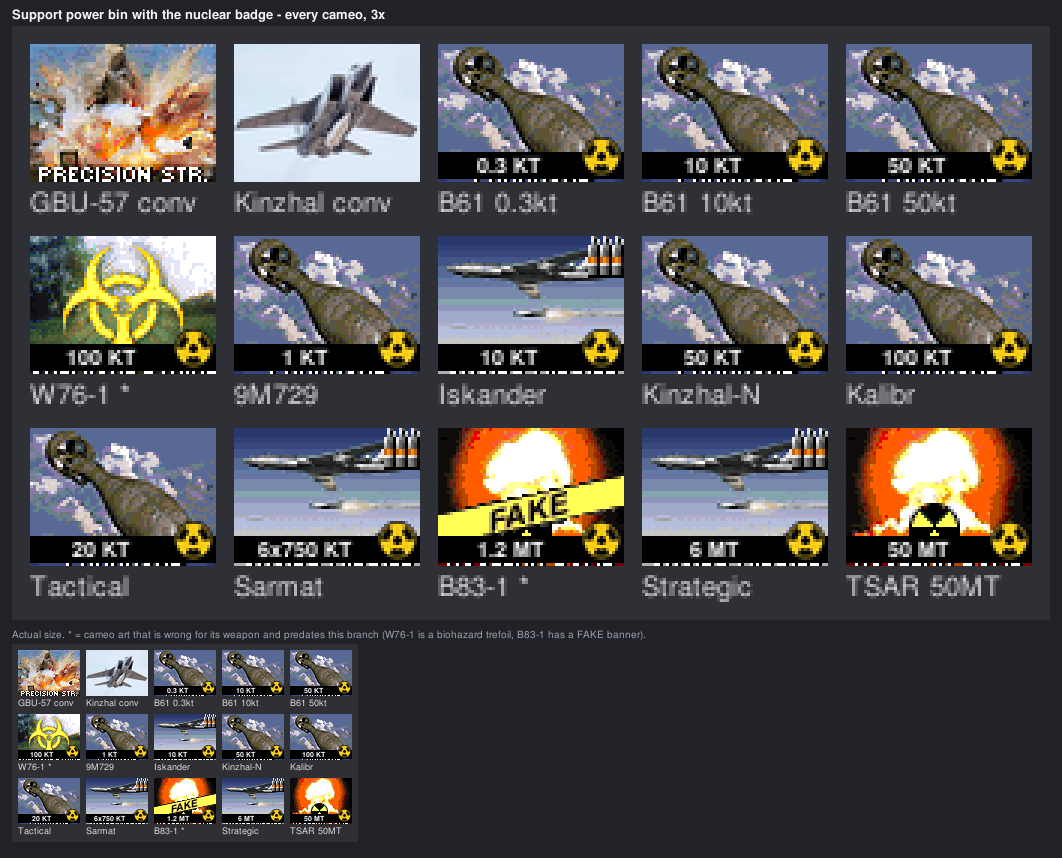
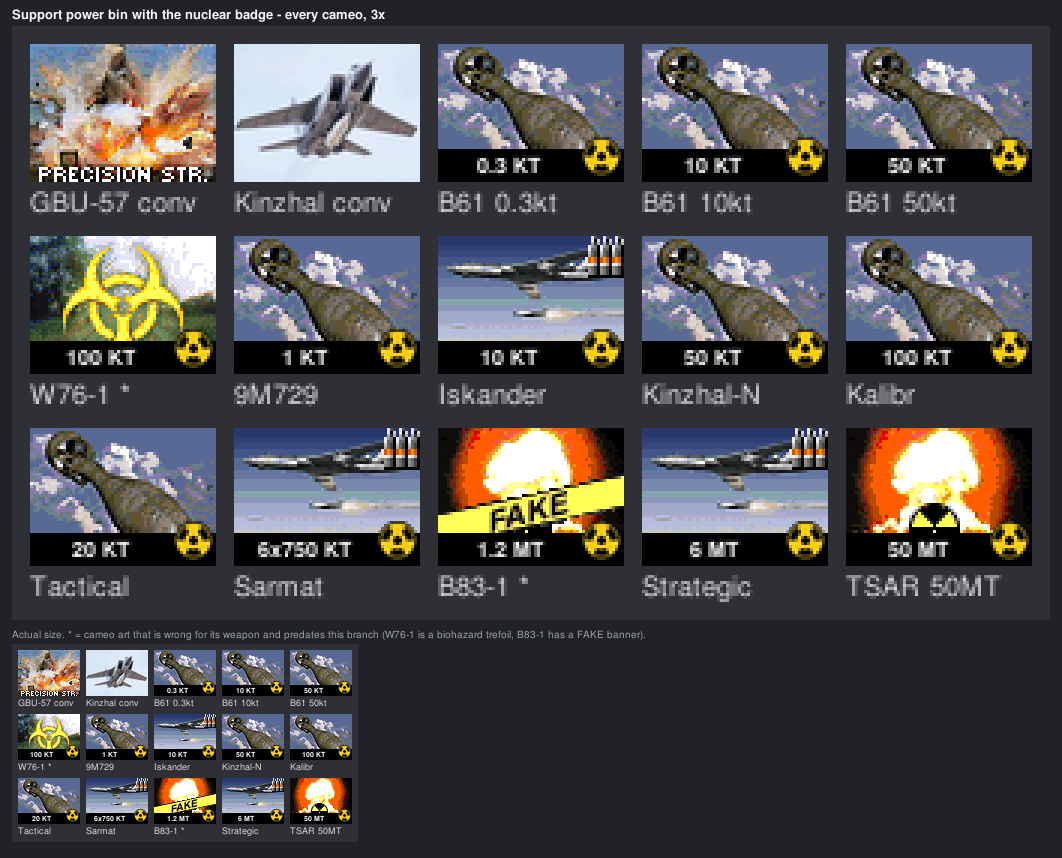
cameos: the caption band now covers the lettering it is meant to replace
The band exists so a runtime caption REPLACES the one baked into the art rather
than overlapping it, and it stopped one row short of doing that. Band rows 36-44
against baked ink whose last row is slot row 45, on all seven cameos the power
roster uses -- so a dotted line of the old lettering survived under every runtime
caption, on every captioned cameo in the mod. Shipped 2026-09-08 with the caption
feature; found by rendering the bin offline, not in play.

CaptionBackgroundPadding 1 -> 2 on both palettes. The padding rather than the
bottom margin, because the margin also positions the TEXT and lowering it would
drag every caption a pixel closer to the slot edge to fix a problem in the band.

THE RULE IS `padding >= bottomMargin`. The band runs to `slotHeight -
bottomMargin + padding`, clamped into the slot, so that is exactly when it
reaches the last row. Both numbers are now stated explicitly on both widgets so
the new test can read them instead of keeping a copy of the engine defaults.

TWO TESTS, because the bug was in the configuration and the arithmetic was fine:

* CameoCaptionsTest pins the relationship in the cache -- padding == margin
  reaches the slot bottom for every margin 0..4, padding < margin does not. The
  second is the shape of this bug, kept so it is on the record and so the first
  cannot be "fixed" by clamping the band unconditionally.

* CameoCaptionBandTest reads chrome/ingame-player.yaml and asserts the rule on
[…]

diff --git a/engine/OpenRA.Test/CameoCaptionBandTest.cs b/engine/OpenRA.Test/CameoCaptionBandTest.cs
@@ -1,0 +1,127 @@
+#region Copyright & License Information
+/*
+ * WW3MOD caption-band geometry test — reads the SHIPPED chrome, because the bug this exists to
+ * catch was in the configuration and not in the code.
+ *
+ * The runtime caption band is drawn behind a cameo caption so the caption REPLACES the lettering
+ * baked into the art rather than overlapping it (CameoCaptions.cs). Every cameo the mod ships has
+ * such lettering, and it runs to the bottom of the art.
+ *
+ * The band's rows are `[top - padding, top + lineHeight + padding]` clamped into the slot, where
+ * `top = slotHeight - bottomMargin - lineHeight` — so its bottom is `slotHeight - bottomMargin +
+ * padding`, and it reaches the slot's last row only when PADDING >= BOTTOM MARGIN.
+ *
+ * THAT DID NOT HOLD WHEN THE FEATURE SHIPPED on 2026-09-08. Both palettes took the engine's default
+ * padding of 1 against a bottom margin of 2, so the band covered slot rows 36–44 while the baked
+ * ink's last row is slot row 45 — verified on all seven cameos the power roster uses, each of which
+ * has its last bright row at sprite row 46, which is slot row 45 once IconSpriteOffset -1,-1 is
+ * applied. The result was a dotted line of the old caption surviving under every new one, on every
+ * captioned cameo in the mod. It was found by rendering the sidebar offline (tools/cameo/binmock.py)
+ * and not in play, which is the whole reason this file exists: nothing else would have said so.
+ *
+ * WHY IT READS THE YAML RATHER THAN ASSERTING NUMBERS. CameoCaptionsTest already pins the
+ * arithmetic; a second copy of it would have passed happily while the shipped chrome stayed wrong.
+ * The only thing that catches a configuration bug is reading the configuration.
+ *
+ * The widgets state BOTH keys explicitly so that this fixture never has to keep a copy of the
+ * engine defaults — a copy that would silently rot the day someone changed one. A widget that
+ * draws a band and omits either key fails here rather than being assumed correct.
+ *
+ * SCOPE, HONESTLY. Geometry only, and only for widgets that actually draw a band (a transparent
+ * CaptionBackgroundColor draws nothing, so the relationship does not matter). It does NOT check
+ * that the art's baked ink really ends where the comment says — that was measured once, offline,
+ * against the seven cameos in use, and new art could differ.
+ */
+#endregion
+
+using System;
+using System.Collections.Generic;
+using System.Globalization;
+using System.IO;
+using System.Linq;
+using NUnit.Framework;
+
+namespace OpenRA.Test
+{
+	[TestFixture]
+	public class CameoCaptionBandTest
+	{
+		static string FindMod(params string[] relative)
+		{
+			var dir = new DirectoryInfo(AppContext.BaseDirectory);
+			for (var i = 0; i < 10 && dir != null; i++, dir = dir.Parent)
+			{
+				var candidate = Path.Combine(new[] { dir.FullName, "mods", "ww3mod" }.Concat(relative).ToArray());
+				if (File.Exists(candidate))
+					return candidate;
+			}
+
+			throw new FileNotFoundException("could not locate mods/ww3mod/" + string.Join("/", relative));
+		}
+
+		static string Field(MiniYamlNode node, string key)
+		{
+			return node.Value.Nodes.FirstOrDefault(n => n.Key == key)?.Value.Value?.Trim();
+		}
+
+		/// <summary>Every widget node anywhere in the tree whose key starts with one of the prefixes.</summary>
+		static IEnumerable<MiniYamlNode> Widgets(IEnumerable<MiniYamlNode> nodes, params string[] prefixes)
+		{
+			foreach (var n in nodes)
+			{
+				if (n.Key != null && prefixes.Any(p => n.Key.StartsWith(p, StringComparison.Ordinal)))
+					yield return n;
+
+				foreach (var inner in Widgets(n.Value.Nodes, prefixes))
+					yield return inner;
+			}
+		}
+
+		static IEnumerable<MiniYamlNode> BandDrawingPalettes()
+		{
+			var chrome = MiniYaml.FromFile(FindMod("chrome", "ingame-player.yaml"));
+			return Widgets(chrome, "SupportPowers", "ProductionPalette")
+				.Where(w =>
+				{
+					// A fully transparent background draws nothing, so the geometry is moot.
+					var colour = Field(w, "CaptionBackgroundColor");
+					return colour != null && !colour.EndsWith("00", StringComparison.OrdinalIgnoreCase);
+				});
+		}
+
+		[Test]
+		public void EveryPaletteThatDrawsABandCoversTheBakedCaptionUnderneathIt()
+		{
+			var palettes = BandDrawingPalettes().ToArray();
+
+			// If this trips, either the widgets were renamed or the band was turned off wholesale.
+			// Both are things somebody should have to notice rather than silently lose the check.
+			Assert.That(palettes, Is.Not.Empty,
+				"no cameo palette in chrome/ingame-player.yaml draws a caption band; if that is " +
+				"deliberate this fixture is now checking nothing and should be deleted with a reason");
+
+			foreach (var w in palettes)
+			{
+				var marginText = Field(w, "CaptionBottomMargin");
+				var paddingText = Field(w, "CaptionBackgroundPadding");
+
+				Assert.That(marginText, Is.Not.Null,
+					$"{w.Key} draws a caption band but leaves CaptionBottomMargin implicit. State it: " +
+					"this fixture compares it against the padding and will not assume an engine default.");
+				Assert.That(paddingText, Is.Not.Null,
+					$"{w.Key} draws a caption band but leaves CaptionBackgroundPadding implicit. State it.");
+
+				var margin = int.Parse(marginText, CultureInfo.InvariantCulture);
+				var padding = int.Parse(paddingText, CultureInfo.InvariantCulture);
+
+				Assert.That(padding, Is.GreaterThanOrEqualTo(margin),
+					$"{w.Key}: CaptionBackgroundPadding {padding} is less than CaptionBottomMargin " +
+					$"{margin}, so the band stops {margin - padding} row(s) short of the bottom of the " +
+					"icon slot. Every shipped cameo has a caption baked into exactly those rows -- its " +
+					"last ink is slot row 45 of 46 -- so a line of the old lettering survives under " +
+					"the runtime caption. Raise the padding rather than lowering the margin; the " +
+					"margin also positions the TEXT, and moving it drags the caption toward the edge.");
+			}
+		}
+	}
+}

diff --git a/engine/OpenRA.Test/OpenRA.Mods.Common/CameoCaptionsTest.cs b/engine/OpenRA.Test/OpenRA.Mods.Common/CameoCaptionsTest.cs
@@ -347,6 +347,35 @@ namespace OpenRA.Test
 		}
 
 		[Test]
+		public void BandReachesTheSlotBottomWhenThePaddingIsAtLeastTheBottomMargin()
+		{
+			// THE RULE THE SHIPPED CONFIGURATION GOT WRONG. The band exists to REPLACE the caption
+			// baked into the art, so it has to cover every row that lettering occupies - and the art
+			// runs to the bottom of the slot and past it. The band's bottom is
+			// `slotHeight - bottomMargin + padding` clamped into the slot, so it reaches the last row
+			// only when the padding is at least the margin. Asserted as the relationship rather than
+			// against a literal 2, so that lowering either number is what fails.
+			for (var margin = 0; margin <= 4; margin++)
+			{
+				var band = Cache(bottomMargin: margin, backgroundPadding: margin).Get("50 KT").Background;
+				Assert.That(band.Bottom, Is.EqualTo(46), $"padding == bottomMargin == {margin}");
+			}
+		}
+
+		[Test]
+		public void BandStopsShortOfTheSlotBottomWhenThePaddingIsLessThanTheBottomMargin()
+		{
+			// The failure this pins is not hypothetical: the caption feature shipped with the engine
+			// default padding of 1 against a bottom margin of 2, leaving band rows 36-44 against
+			// baked ink whose last row is slot row 45, so a dotted line of the old lettering survived
+			// under every runtime caption. Kept as a test so the shape of that bug is on the record
+			// and the test above cannot be "fixed" by clamping the band unconditionally.
+			var band = Cache(bottomMargin: 2, backgroundPadding: 1).Get("50 KT").Background;
+			Assert.That(band.Bottom, Is.EqualTo(45));
+			Assert.That(band.Bottom, Is.LessThan(46));
+		}
+
+		[Test]
 		public void BackgroundBandIsClampedIntoTheSlot()
 		{
 			// A padding generous enough to reach past either edge must not, or the band would paint

diff --git a/tools/cameo/binmock.py b/tools/cameo/binmock.py
@@ -27,7 +27,12 @@ ROOT = os.path.dirname(os.path.dirname(os.path.dirname(os.path.abspath(__file__)
 ICONS = os.path.join(ROOT, "mods/ww3mod/bits/misc/icons")
 
 SLOT_W, SLOT_H = 62, 46
-SIDE_MARGIN, BOTTOM_MARGIN, BAND_PAD, BADGE_GAP = 1, 2, 1, 1
+
+# Hand copy of the two palettes in chrome/ingame-player.yaml. BAND_PAD must stay >= BOTTOM_MARGIN
+# or the band stops short of the baked caption underneath it -- which is exactly the defect this
+# script found on 2026-09-08, when both were at the engine default of 1 against a margin of 2.
+# CameoCaptionBandTest enforces that relationship on the real chrome; nothing enforces it here.
+SIDE_MARGIN, BOTTOM_MARGIN, BAND_PAD, BADGE_GAP = 1, 2, 2, 1
 SPRITE_OFFSET = (-1, -1)  # IconSpriteOffset in chrome/ingame-player.yaml
 BAND = (0, 0, 0, 255)
 
